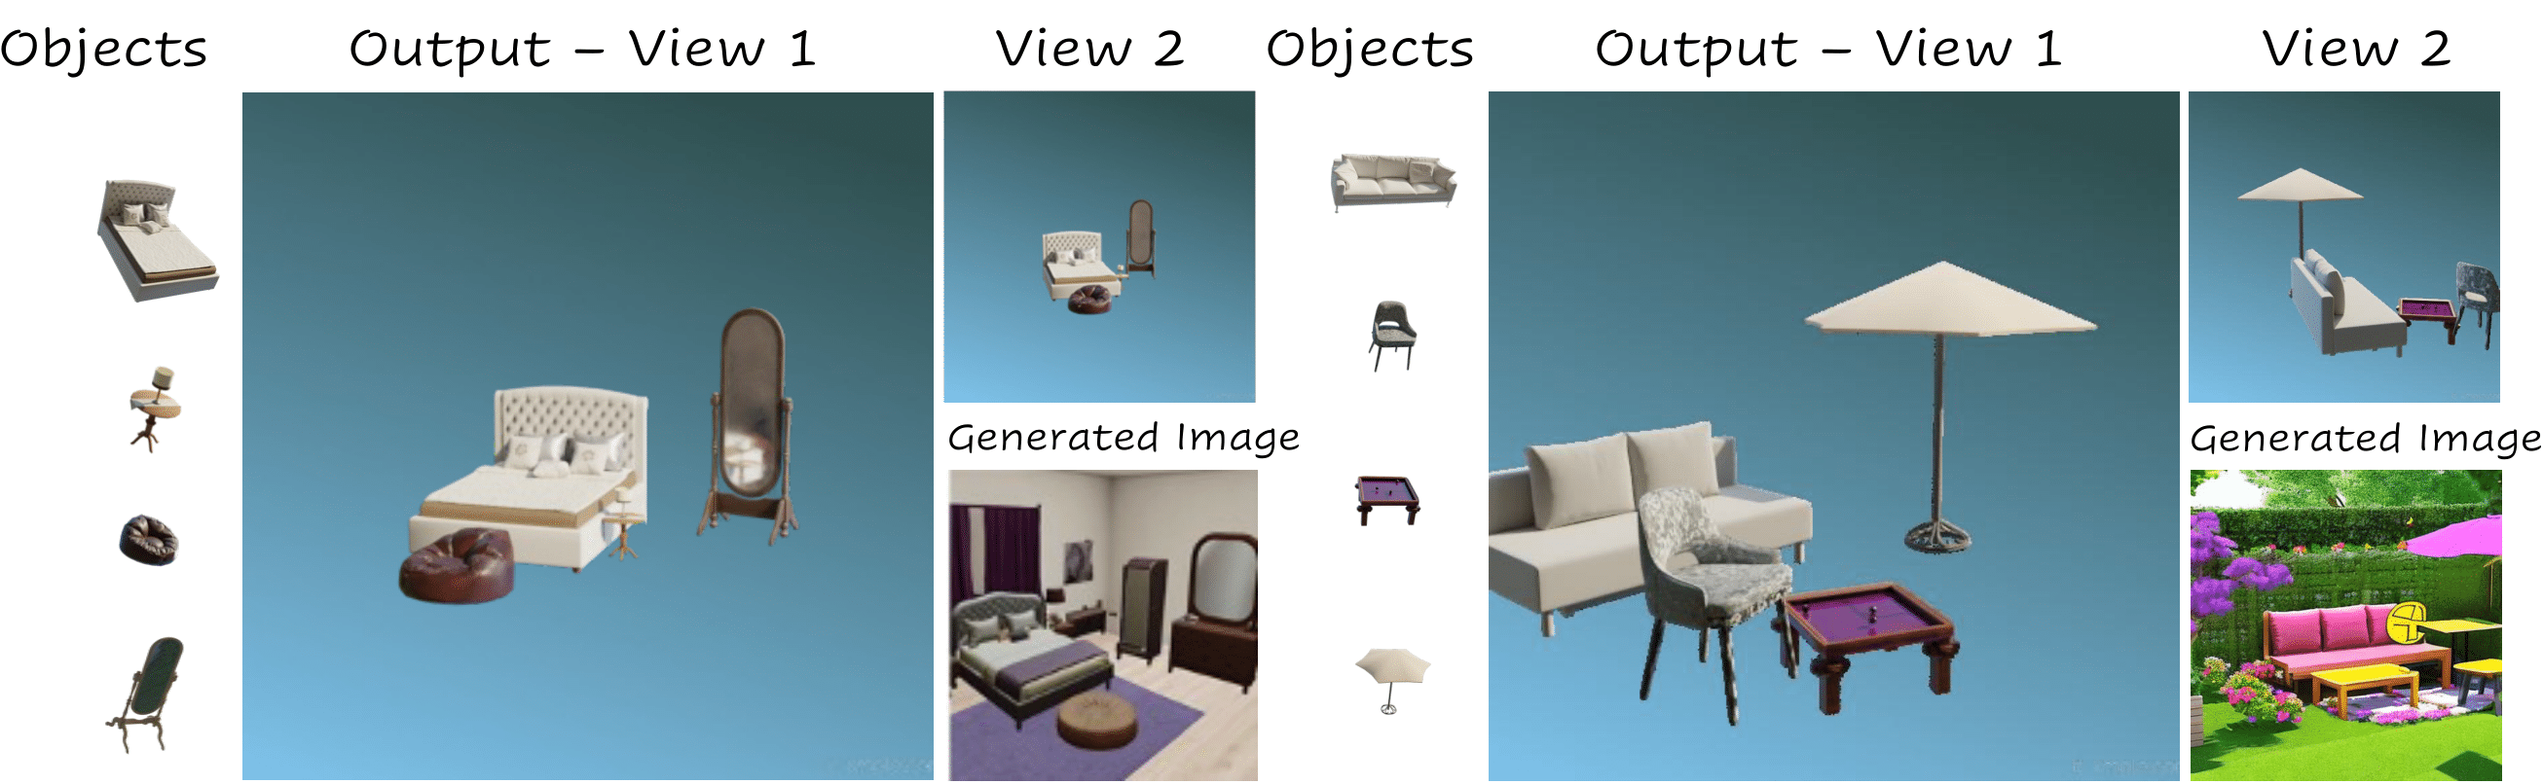
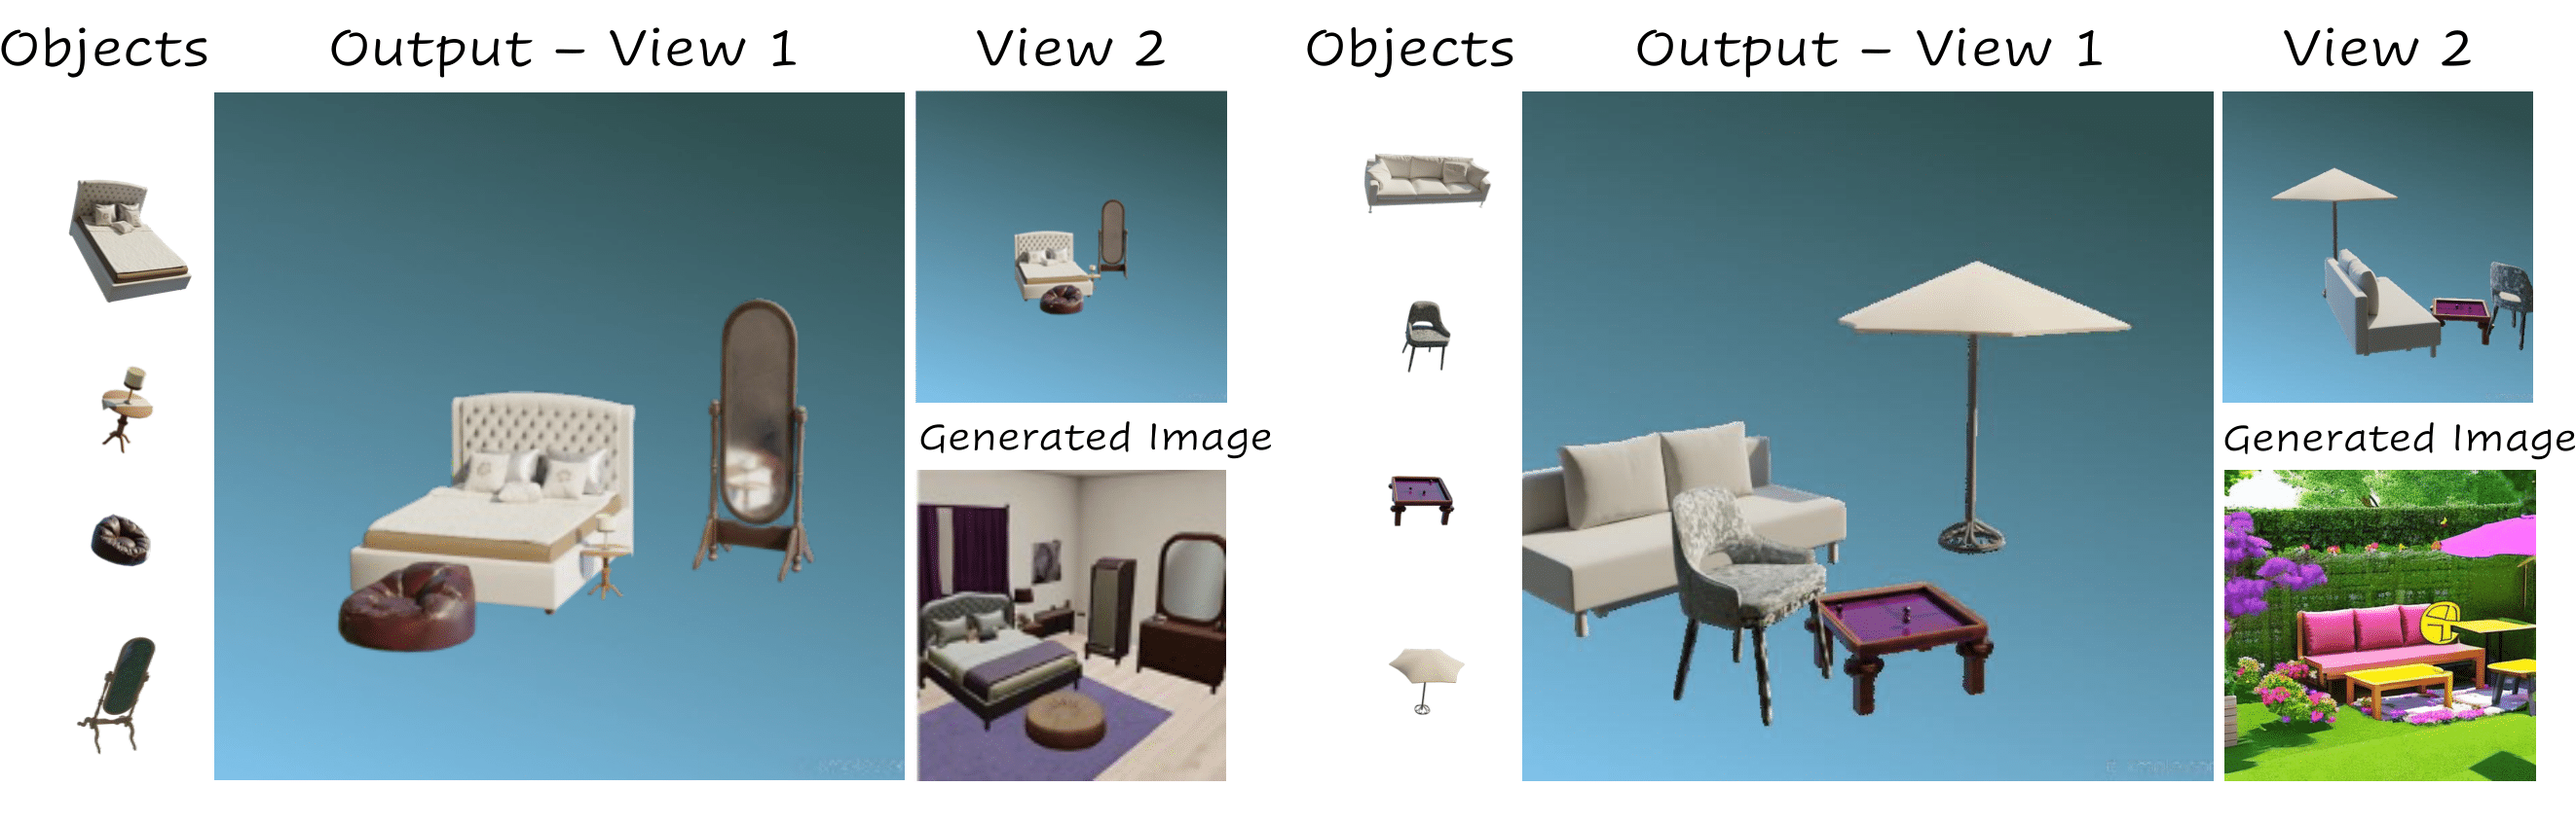
fig 1

Changed region(s): [[0.0, 0.031, 1.0, 1.0], [0.124, 0.3412, 0.3101, 0.8065], [0.4962, 0.031, 0.5892, 0.0931]]

diff --git a/index.html b/index.html
@@ -331,6 +331,7 @@ figure {
 
     <section id="teaser-videos">
         <div class="flex-row">
+            <h3>Generated Image &nbsp;&nbsp;&nbsp;&nbsp;&nbsp;&nbsp;&nbsp;&nbsp;&nbsp;&nbsp;&nbsp;&nbsp;&nbsp;&nbsp;&nbsp;&nbsp;&nbsp;&nbsp;&nbsp;&nbsp;&nbsp;&nbsp;&nbsp;&nbsp;&nbsp;&nbsp;&nbsp;&nbsp;&nbsp;&nbsp;&nbsp;&nbsp;&nbsp;&nbsp;&nbsp;&nbsp;&nbsp;&nbsp;&nbsp;&nbsp;&nbsp;&nbsp;&nbsp;&nbsp;&nbsp;&nbsp;&nbsp;&nbsp;&nbsp;&nbsp;&nbsp;&nbsp;&nbsp;&nbsp; Output Scene &nbsp;&nbsp;</h3>
         <figure style="width: 100%;">
             <img src="./files/web/sofa_table_chair/sd_image_2.jpeg" alt="this slowpoke moves"  width="49.5%" />
             <img src="./files/web/sofa_table_chair/result_video_2.gif" alt="this slowpoke moves"  width="49.5%" />
@@ -406,7 +407,7 @@ figure {
         <h2>Objaverse dataset</h2>
         <hr>
 
-
+        <h3>Generated Image &nbsp;&nbsp;&nbsp;&nbsp;&nbsp;&nbsp;&nbsp;&nbsp;&nbsp;&nbsp;&nbsp;&nbsp;&nbsp;&nbsp; Output Scene &nbsp;&nbsp;&nbsp;&nbsp;&nbsp;&nbsp;&nbsp;&nbsp;&nbsp;&nbsp;&nbsp;&nbsp;&nbsp;&nbsp; Generated Image &nbsp;&nbsp;&nbsp;&nbsp;&nbsp;&nbsp;&nbsp;&nbsp;&nbsp;&nbsp;&nbsp;&nbsp;&nbsp;&nbsp; Output Scene &nbsp;&nbsp;</h3>
         <figure style="display: inline; width: 33%;">
             <img src="./files/web/sofa_tree/sd_image_0.jpeg" alt="this slowpoke moves"  width="24.5%" />
             <img src="./files/web/sofa_tree/result_video_0.gif" alt="this slowpoke moves"  width="24.5%" />
